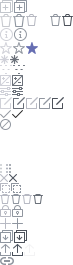
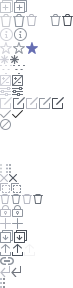
#295 add css in global variable

Changed region(s): [[0.0, 0.0, 0.8767, 0.5132], [0.0, 0.5434, 0.6027, 1.0], [0.6849, 0.0302, 1.0, 0.1208]]

diff --git a/discovery-frontend/src/assets/css/polaris.v2.page.css b/discovery-frontend/src/assets/css/polaris.v2.page.css
@@ -6321,9 +6321,10 @@ em.ddp-icon-navimenu {margin:-8px 0 0 -8px; width:16px; height:16px; background-
 .ddp-ui-rnb-contents.ddp-type {width:316px;}
 .ddp-ui-rnb-contents:before {display:inline-block; content:''; position:absolute; left:-5px; top:0; bottom:0; width:5px; background:url(../images/bg_shadow2.png) repeat-y;}
 
-.ddp-ui-rnb-contents .ddp-ui-title {padding:17px 0 15px 0; margin-left:15px; font-size:16px; color:#555d66; font-weight:bold; border-bottom:1px solid #e5e6e8;}
-.ddp-ui-rnb-contents .ddp-ui-title span.ddp-data-num {margin-left:10px; color:#666db7;}
+.ddp-ui-rnb-contents .ddp-ui-title {position:relative; padding:17px 0 15px 0; margin-left:15px; font-size:16px; color:#555d66; font-weight:bold; border-bottom:1px solid #e5e6e8;}
+.ddp-ui-rnb-contents .ddp-ui-title span.ddp-data-num {margin-left:10px; color:#b7b9c2;}
 .ddp-ui-rnb-contents .ddp-ui-title span.ddp-data-num2 {color:#b7b9c2; font-size:16px; font-weight:bold;}
+
 .ddp-ui-rnb-contents .ddp-ui-option {position:relative;}
 .ddp-ui-rnb-contents .ddp-wrap-selectbox {position:absolute; top:10px; right:17px;}
 .ddp-ui-rnb-contents .ddp-ui-option .ddp-form-search  {margin:6px 20px 9px 20px; width:200px;}
@@ -6335,14 +6336,53 @@ em.ddp-icon-navimenu {margin:-8px 0 0 -8px; width:16px; height:16px; background-
 .ddp-ui-rnb-contents .ddp-wrap-table-simple .ddp-table-tbody {position:absolute; top:23px; left:0; right:0; bottom:0; overflow-y:scroll;}
 .ddp-ui-rnb-contents .ddp-wrap-table-simple .ddp-table-tbody::-webkit-scrollbar-track {background:#f7f7f8;}
 .ddp-ui-rnb-contents .ddp-wrap-table-simple .ddp-table-tbody::-webkit-scrollbar-thumb  {border-color:#f7f7f8;}
+.ddp-ui-rnb-contents .ddp-ui-var-plus {position:absolute; top:53px; left:0; right:0; bottom:0; padding:15px 15px 0 15px;}
+.ddp-ui-rnb-contents .ddp-ui-var-plus .ddp-ui-addview {position:relative; margin-top:-15px;}
+.ddp-ui-rnb-contents .ddp-ui-var-plus .ddp-wrap-addview .ddp-btn-add {display:inline-block; position:absolute; top:-33px; right:16px; width:12px; height:12px; background:url(../images/icon_add2.png) no-repeat; background-position:-55px top;}
 
-.ddp-ui-rnb-contents .ddp-ui-var-plus {padding:20px 0 0 15px;}
-.ddp-ui-rnb-contents .ddp-ui-var-plus .ddp-type-selectbox {float:left; width:130px; box-sizing:border-box;}
+@keyframes plusspin {
+  from {transform:rotate(0deg);}
+  to {transform:rotate(45deg);}
+}
+
+.ddp-ui-rnb-contents .ddp-ui-var-plus .ddp-wrap-addview.ddp-selected .ddp-btn-add {animation-name: plusspin;animation-duration: 0.3s;transform:rotate(45deg);}
+
+.ddp-ui-rnb-contents .ddp-ui-var-plus .ddp-wrap-addview .ddp-ui-addview {display:none;}
+.ddp-ui-rnb-contents .ddp-ui-var-plus .ddp-wrap-addview.ddp-selected .ddp-ui-addview {display:block;}
+
+.ddp-ui-rnb-contents .ddp-ui-var-plus .ddp-ui-addview .ddp-box-addview {width:316px; padding:15px; margin-left:-15px; margin-bottom:13px; background-color:#e7e7ea; box-sizing:border-box; font-weight:normal; z-index:10;}
+.ddp-ui-rnb-contents .ddp-ui-var-plus .ddp-ui-addview .ddp-box-addview:before {display:inline-block; position:absolute; bottom:100%; right:0; width:18px; height:11px; background:url(../images/icon_addview.png) no-repeat; content:'';}
+.ddp-ui-var-plus .ddp-ui-addview .ddp-list-addview tr th {padding:8px 0; color:#90969f; font-size:13px; font-weight:normal; text-align:left; vertical-align:top;}
+.ddp-ui-var-plus .ddp-ui-addview .ddp-list-addview tr td {padding:2px 0;}
+.ddp-ui-var-plus .ddp-ui-addview .ddp-list-addview tr td .ddp-type-selectbox.ddp-txt-type {width:120px;}
+.ddp-ui-var-plus .ddp-data-error {color:#e70000; font-size:12px; font-style:italic;}
+.ddp-ui-var-plus .ddp-data-error:before {display:inline-block; width:13px; height:13px; background:url(../images/icon_info.png) no-repeat; vertical-align:middle; background-position:-28px top; content:'';}
+
+.ddp-ui-var-plus .ddp-ui-addview .ddp-box-buttons {padding:2px 0 0 46px;}
+.ddp-ui-var-plus .ddp-list-form-plus {color:#b7b9c2; font-size:13px;}
+.ddp-ui-var-plus .ddp-list-form-plus .ddp-input-typebasic.ddp-readonly {border-color:transparent; background:none; white-space:nowrap; text-overflow:ellipsis; overflow:hidden;}
+.ddp-ui-var-plus .ddp-list-form-plus .ddp-input-typebasic.ddp-readonly.ddp-value {color:#90969f;}
+.ddp-ui-var-plus .ddp-list-form-plus .ddp-wrap-link-list {float:left; margin:0 -15px; padding:2px 12px 2px 15px; cursor:pointer;}
+.ddp-ui-var-plus .ddp-list-form-plus .ddp-wrap-link-list:hover {background-color:#e7e7ea;}
+.ddp-ui-var-plus .ddp-list-form-plus .ddp-wrap-link-list .ddp-form-multy2 {margin-bottom:0px;}
+.ddp-ui-var-plus .ddp-list-form-plus .ddp-wrap-link-list .ddp-form-multy2.ddp-type em.ddp-icon-type-calen3,
+.ddp-ui-var-plus .ddp-list-form-plus .ddp-wrap-link-list .ddp-form-multy2.ddp-type em.ddp-icon-type-text {margin-top:0; top:9px;}
+.ddp-ui-var-plus .ddp-list-form-plus .ddp-wrap-link-list .ddp-form-multy2 .ddp-ui-buttons {margin-top:0; top:5px;}
+.ddp-ui-var-plus .ddp-list-form-plus .ddp-wrap-link-list .ddp-form-multy2 .ddp-ui-buttons .ddp-icon-control-insert {position:relative; top:2px;}
+.ddp-ui-var-plus .ddp-list-form-plus .ddp-wrap-link-list .ddp-box-typebasic {width:55%; float:left;}
+.ddp-ui-var-plus .ddp-list-form-plus .ddp-wrap-link-list .ddp-box-typebasic.ddp-value {width:43%; float:right;}
+.ddp-ui-var-plus .ddp-list-form-plus .ddp-wrap-link-list .ddp-box-typebasic input.ddp-input-typebasic {width:100%; cursor:pointer;}
+.ddp-ui-var-plus .ddp-list-form-plus .ddp-link-buttons {clear:both; padding:6px 0 3px 0;text-align:right;}
+
+.ddp-ui-var-plus .ddp-list-blank .ddp-icon-blank-plus {display:inline-block; width:9px; height:10px; margin-right:6px; background:url(../images/icon_blank.png) no-repeat; vertical-align:middle;}
+.ddp-ui-var-plus .ddp-list-blank {color:#b7b9c2; font-size:13px; letter-spacing:-1px;}
+
+.ddp-ui-var-plus .ddp-list-blank .ddp-icon-blank-point {display:inline-block; width:10px; height:14px; margin-left:5px; background:url(../images/icon_blank.png) no-repeat; background-position:left -11px; vertical-align:middle;}
 .ddp-ui-var-plus a.ddp-link-var-add {display:inline-block; float:right; position:relative; top:6px; padding-left:13px; padding-right:15px; color:#90969f; font-size:12px; overflow:hidden;}
 .ddp-ui-var-plus a.ddp-link-var-add.ddp-disabled {opacity:0.5; cursor: no-drop;}
 .ddp-ui-var-plus a.ddp-link-var-add em.ddp-box-plus {display:inline-block;  position:relative; width:14px; height:14px; margin-right:7px; text-align:center; border:1px solid #dededf; vertical-align: middle;}
 .ddp-ui-var-plus a.ddp-link-var-add em.ddp-box-plus:before {display:inline-block; position:absolute; top:50%; left:50%; margin:-5px 0 0 -5px; width:9px; height:9px; background:url(../images/btn_minus_plus.png) no-repeat; background-position:left -2px; content:'';}
-.ddp-ui-rnb-contents .ddp-ui-form-list {position:absolute; top:119px; left:0; right:0; bottom:0; padding:0 15px; overflow:auto;}
+.ddp-ui-rnb-contents .ddp-ui-form-list {}
 .ddp-form-multy2 {position:relative; padding-right:40px; margin-bottom:6px;}
 .ddp-form-multy2.ddp-type {padding-left:20px;}
 .ddp-form-multy2.ddp-type em.ddp-icon-type-calen3,
@@ -6351,6 +6391,7 @@ em.ddp-icon-navimenu {margin:-8px 0 0 -8px; width:16px; height:16px; background-
 .ddp-form-multy2 .ddp-input-typebasic.ddp-value {float:right; width:43%;}
 .ddp-form-multy2 .ddp-ui-buttons {position:absolute; top:50%; right:0; margin-top:-11px;}
 .ddp-form-multy2 .ddp-ui-buttons .ddp-btn-control {position:relative; float:left; margin-left:3px;}
+
 .ddp-form-multy2 .ddp-ui-buttons .ddp-btn-control .ddp-ui-tooltip-info {display:none; top:22px; left:inherit; right:-10px;}
 .ddp-form-multy2 .ddp-ui-buttons .ddp-btn-control:hover .ddp-ui-tooltip-info {display:block;}
 .ddp-form-multy2 .ddp-ui-buttons .ddp-btn-control .ddp-ui-tooltip-info em.ddp-icon-view-top {left:inherit; right:17px}
@@ -6358,6 +6399,10 @@ em.ddp-icon-navimenu {margin:-8px 0 0 -8px; width:16px; height:16px; background-
 .ddp-form-multy2 .ddp-ui-buttons .ddp-btn-control.ddp-disabled {opacity:0.3;}
 .ddp-form-multy2 .ddp-ui-buttons .ddp-btn-control.ddp-disabled:after {display:inline-block; content:'';position:absolute; top:-3px; left:-3px; right:-3px; bottom:-3px; cursor: no-drop;}
 .ddp-form-multy2 .ddp-ui-buttons .ddp-btn-control.ddp-disabled .ddp-ui-tooltip-info {display:none;}
+
+.ddp-form-multy2 .ddp-ui-buttons .ddp-btn-control .ddp-wrap-popup2 {display:none; position:absolute; top:100%; right:0; margin-top:3px;}
+.ddp-form-multy2 .ddp-ui-buttons .ddp-btn-control.ddp-selected .ddp-wrap-popup2 {display:block;}
+.ddp-form-multy2 .ddp-ui-buttons .ddp-btn-control.ddp-selected .ddp-icon-control-more2:before {background-position-x:-3px;}
 
 .ddp-form-multy2 .ddp-ui-calen {position:relative; float:right; width:43%; background-color:#fff;}
 

diff --git a/discovery-frontend/src/assets/css/polaris.v2.component.css b/discovery-frontend/src/assets/css/polaris.v2.component.css
@@ -1497,7 +1497,7 @@ a.ddp-btn-buttons4.ddp-bg-black {background-color:#4b515b; border:1px solid #4b5
 a.ddp-btn-buttons4.ddp-bg-black:hover {background-color:#35393f; border:1px solid #35393f;}
 a.ddp-btn-buttons4 .ddp-icon-add {display:inline-block; width:13px; height:13px; margin-right:5px;  background:url(../images/icon_add.png) no-repeat; background-position:-42px -22px;}
 a.ddp-btn-buttons4 .ddp-icon-edit {display:inline-block; width:13px; height:13px; margin-right:5px;background:url(../images/icon_widget.png) no-repeat; background-position:-41px -131px;}
-.ddp-btn-pop {display:inline-block; min-width:85px; padding:6px 9px; border-radius:2px; border:1px solid #d0d1d8; font-weight:300; text-align:center; color:#90969f; font-size:13px; box-sizing:border-box;}
+.ddp-btn-pop {display:inline-block; min-width:85px; padding:6px 9px; border-radius:2px; border:1px solid #d0d1d8; text-align:center; color:#90969f; font-size:13px; box-sizing:border-box;}
 .ddp-btn-pop em.ddp-btn-reset {display:inline-block; position:relative; top:-1px; width:15px; height:13px; margin-right:5px;  background:url(../images/icon_reset.png) no-repeat; background-position:-16px -20px;vertical-align: middle;}
 .ddp-btn-pop:hover {border:1px solid #b7b9c2; color:#4b515b;}
 .ddp-btn-pop.ddp-disabled {border:1px solid #e7e7ea; color:#d0d1d8; cursor: no-drop;}
@@ -2097,7 +2097,9 @@ em.ddp-icon-control-user.ddp-type,
 em.ddp-icon-control-parameter.ddp-type,
 em.ddp-icon-control-calculat.ddp-type,
 em.ddp-icon-control-filter.ddp-type,
-em.ddp-icon-control-link {display:inline-block; padding:3px; cursor:pointer; vertical-align: middle;}
+em.ddp-icon-control-link,
+em.ddp-icon-control-insert,
+em.ddp-icon-control-more2 {display:inline-block; padding:3px; cursor:pointer; vertical-align: middle;}
 em.ddp-icon-control-copy:before,
 em.ddp-icon-control-copy-s:before,
 em.ddp-icon-control-cut:before,
@@ -2118,7 +2120,9 @@ em.ddp-icon-control-user.ddp-type:before,
 em.ddp-icon-control-parameter.ddp-type:before,
 em.ddp-icon-control-calculat.ddp-type:before,
 em.ddp-icon-control-filter.ddp-type:before,
-em.ddp-icon-control-link:before{display:inline-block; content:''; background:url(../images/icon_control.png) no-repeat; vertical-align: middle;}
+em.ddp-icon-control-link:before,
+em.ddp-icon-control-insert:before,
+em.ddp-icon-control-more2:before {display:inline-block; content:''; background:url(../images/icon_control.png) no-repeat; vertical-align: middle;}
 em.ddp-icon-control-link {padding-top:4px;}
 em.ddp-icon-control-link:before {width:14px; height:8px; background-position:left -257px; opacity:0.6}
 em.ddp-icon-control-link:hover:before {opacity:1;}
@@ -2138,16 +2142,19 @@ em.ddp-icon-control-plus:hover:before {background-position:-12px -218px;}
 em.ddp-icon-control-fav.ddp-selected:before {background-position:-26px -42px;}
 em.ddp-icon-control-user:before {width:9px; height:9px; background-position:left -55px;}
 em.ddp-icon-control-filter:before {width:12px; height:9px; background-position:left -65px;}
-
 em.ddp-icon-control-parameter:before {width:11px; height:9px; background-position:left -87px;}
 em.ddp-icon-control-calculat:before {width:11px; height:11px; background-position:left -75px;}
 em.ddp-icon-control-dimension:before {width:12px; height:12px; background-position:left -98px;}
 em.ddp-icon-control-more:before {display:inline-block; width:2px; height:9px; background-position:left -164px;}
-
 em.ddp-icon-control-close:before {display:inline-block; width:8px; height:8px; background-position:left -174px;}
-
 em.ddp-icon-control-copy-s:before {width:10px; height:10px; background-position:left -183px;}
 em.ddp-icon-control-cut-s:before {width:10px; height:10px; background-position:left -194px;}
+em.ddp-icon-control-insert:before {width:10px; height:11px; background-position:left -266px;}
+em.ddp-icon-control-insert:hover:before {background-position-x:-11px;}
+
+em.ddp-icon-control-more2 {width:16px; height:17px; box-sizing:border-box;}
+em.ddp-icon-control-more2:before {position:absolute; top:50%; left:50%; width:2px; height:10px; margin:-5px 0 0 -1px; background-position:left -278px;}
+em.ddp-icon-control-more2:hover:before {background-position-x:-3px;}
 
 em.ddp-icon-control-copy-s:hover:before {background-position:-11px -183px;}
 em.ddp-icon-control-cut-s:hover:before  {background-position:-11px -194px;}
